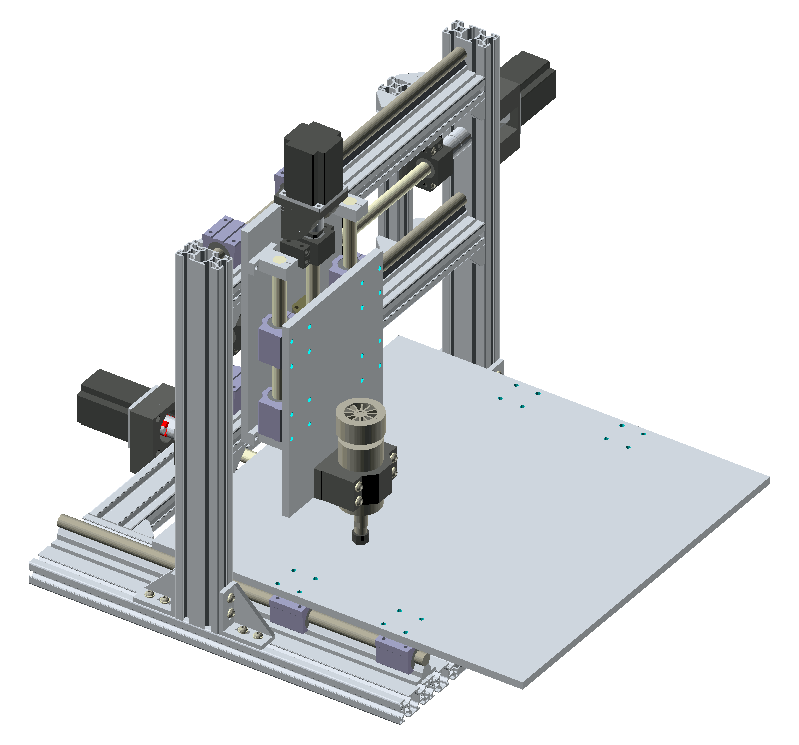
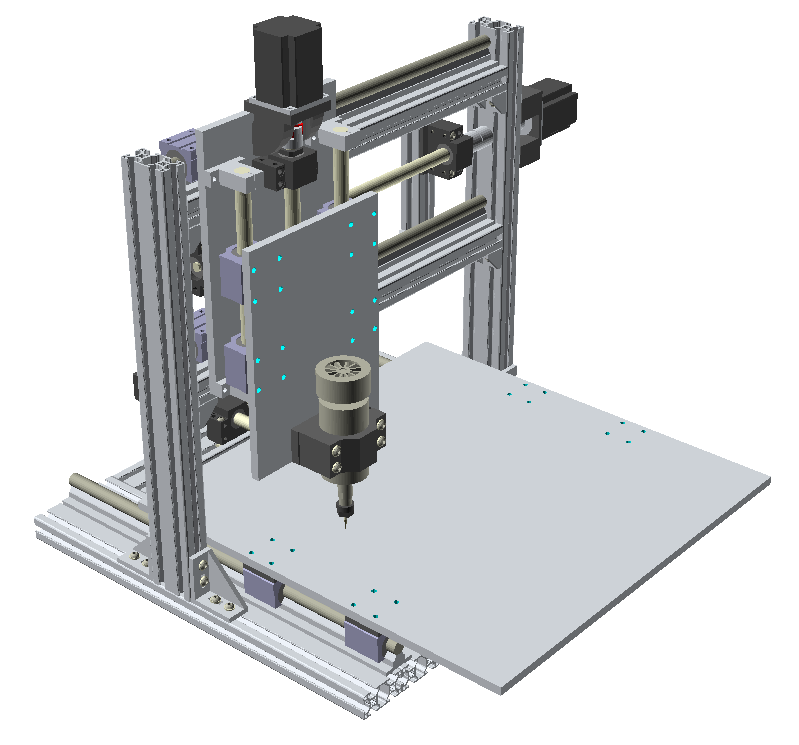
Add X plate spacers

diff --git a/generate_bom.py b/generate_bom.py
@@ -15,7 +15,9 @@ bom_mark = "BOM_ITEM: ";
 
 print("Generating BOM...");
 
-scad_log = subprocess.check_output('openscad.exe -o preview.png --viewall --autocenter --imgsize=1200,630 ' + sys.argv[1], stderr=subprocess.STDOUT).decode("utf-8");
+scad_log = subprocess.check_output('openscad.exe -o preview.png --autocenter --camera=307.83,5.97,208.80,61.30,0,40.40,2100 --imgsize=799,745 --colorscheme="Starnight" ' + sys.argv[1], stderr=subprocess.STDOUT).decode("utf-8");
+#Use the following to get a transparent background: convert preview.png -transparent "#000000" preview.png
+
 pos = 0;
 
 #print(scad_log);
